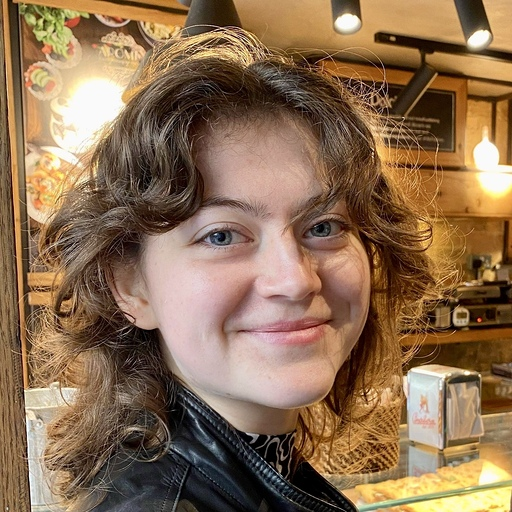
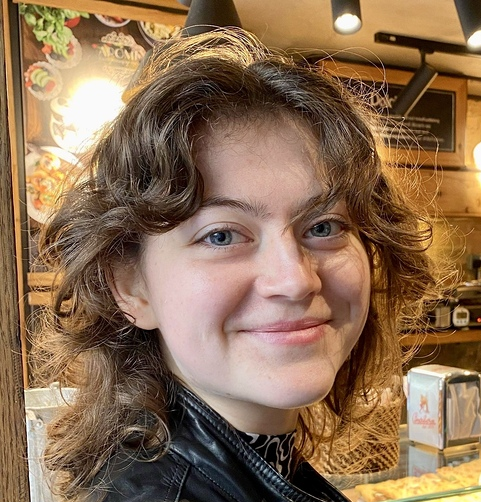
introduction

diff --git a/index.html b/index.html
@@ -6,6 +6,10 @@
     <meta name="viewport" content="width=device-width, initial-scale=1.0">
     <!-- CSS only -->
     <link href="https://cdn.jsdelivr.net/npm/bootstrap@5.2.3/dist/css/bootstrap.min.css" rel="stylesheet" integrity="sha384-rbsA2VBKQhggwzxH7pPCaAqO46MgnOM80zW1RWuH61DGLwZJEdK2Kadq2F9CUG65" crossorigin="anonymous">
+    <!--icons -->
+    <link rel="stylesheet" href="https://cdnjs.cloudflare.com/ajax/libs/font-awesome/6.2.1/css/all.min.css">
+    <!--social media -->
+    <link rel="stylesheet" href="https://cdnjs.cloudflare.com/ajax/libs/font-awesome/4.7.0/css/font-awesome.min.css">
     <link href="style.css" rel="stylesheet" type="text/css">
     <title>Self Introduction and Interest</title>
 </head>
@@ -27,7 +31,13 @@
                     <a class="nav-link active" aria-current="page" href="#">Home</a>
                     </li>
                     <li class="nav-item">
-                    <a class="nav-link" href="#">Page 1</a>
+                    <a class="nav-link" href="#Nicole">Nicole</a>
+                    </li>
+                    <li class="nav-item">
+                    <a class="nav-link" href="#Favour">Favour</a>
+                    </li>
+                    <li class="nav-item">
+                    <a class="nav-link" href="#Naomi">Naomi</a>
                     </li>
                 </ul>
             </div>
@@ -41,31 +51,32 @@
           <button type="button" data-bs-target="#carouselExampleCaptions" data-bs-slide-to="0" class="active" aria-current="true" aria-label="Slide 1"></button>
           <button type="button" data-bs-target="#carouselExampleCaptions" data-bs-slide-to="1" aria-label="Slide 2"></button>
           <button type="button" data-bs-target="#carouselExampleCaptions" data-bs-slide-to="2" aria-label="Slide 3"></button>
+          <button type="button" data-bs-target="#carouselExampleCaptions" data-bs-slide-to="3" aria-label="Slide 4"></button>
         </div>
         <div class="carousel-inner">
             <div class="carousel-item active">
-                <img src="theTeam.jpg" class="d-block w-100" alt="...">
+                <img src="team5.png" class="d-block w-100" width="400" height="auto" alt="...">
                     <div class="carousel-caption d-none d-md-block">
                         <h5>Meet Team 5</h5>
                         <p>Hello This is Team 5</p>
                     </div>
             </div>
             <div class="carousel-item">
-                <img src="nicole1.jpg" class="d-block w-100" alt="...">
+                <img src="nicole1.jpg" class="d-block w-100" width="400" height="auto" style="width:100%" alt="...">
                 <div class="carousel-caption d-none d-md-block">
                     <h5>Nicole Nash</h5>
                     <p>This is Nicole Nash</p>
                 </div>
             </div>
             <div class="carousel-item">
-                <img src="fav1.jpg" class="d-block w-100" alt="...">
+                <img src="fav1.jpg" class="d-block w-100" style="width:100%" alt="...">
                 <div class="carousel-caption d-none d-md-block">
                     <h5>Favour Ekengwu</h5>
                     <p>This is Favour Ekengwu</p>
                 </div>
             </div>
             <div class="carousel-item">
-                <img src="naomi1.png" class="d-block w-100" alt="...">
+                <img src="naomi1.png" class="d-block w-100" width="400" height="500" alt="...">
                 <div class="carousel-caption d-none d-md-block">
                     <h5>Naomi Lowes</h5>
                     <p>This is Naomi Lowes</p>
@@ -81,7 +92,126 @@
           <span class="visually-hidden">Next</span>
         </button>
       </div>
+    
 
+
+    <!-- First Grid -->
+    <a name="Nicole"></a>
+    <div class="w3-row-padding w3-padding-64 w3-light-grey w3-container">
+        <div class="w3-content">
+            <div class="w3-twothird">
+                <h1><b>Nicole</b></h1>
+
+
+            <p><b>Nicole </b></p> 
+            <p> Introduction </p>
+
+            <p> Information about your self </p>
+
+            <br>
+            <h1><b>Interest and Hobbie</b></h1>
+
+            <p>More  </p>
+
+            <p> </p>
+
+            <p></p>
+            </div>
+
+            <!-- <div class="w3-third w3-center">
+                <i class="fa-solid fa-rocket w3-padding-64 w3-text-red fa-10x"></i>
+            
+            </div> -->
+        </div>
+    </div>
+
+    <!-- First Grid -->
+    <a name="Favour"></a>
+    <div class="w3-row-padding w3-padding-64 w3-container">
+        <div class="w3-content">
+            <div class="w3-twothird">
+                <h1><b>Favour</b></h1>
+
+
+            <p><b>Favour </b></p> 
+            <p> Introduction </p>
+
+            <p> Information about your self </p>
+
+            <br>
+            <h1><b>Interest and Hobbie</b></h1>
+
+            <p>More  </p>
+
+            <p> </p>
+
+            <p></p>
+            </div>
+
+            <!-- <div class="w3-third w3-center">
+                <i class="fa-solid fa-rocket w3-padding-64 w3-text-red fa-10x"></i>
+            
+            </div> -->
+        </div>
+    </div>
+
+
+        <!-- First Grid -->
+        <a name="Naomi"></a>
+        <div class="w3-row-padding w3-padding-64 w3-light-grey w3-container">
+            <div class="w3-content">
+                <div class="w3-twothird">
+                    <h1><b>Naomi</b></h1>
+    
+    
+                <p><b>Naomi </b></p> 
+                <p> Introduction </p>
+    
+                <p> Information about your self </p>
+    
+                <br>
+                <h1><b>Interest and Hobbie</b></h1>
+    
+                <p>More  </p>
+    
+                <p> </p>
+    
+                <p></p>
+                </div>
+    
+                <!-- <div class="w3-third w3-center">
+                    <i class="fa-solid fa-linkedin w3-padding-64 w3-text-red fa-10x"></i>
+                
+                </div> -->
+            </div>
+        </div>
+
+
+
+    <!-- Footer -->
+    <a name="Contact"></a>
+    <footer class="w3-container w3-padding-32 w3-theme-d1 w3-center">
+        <h4>Contact Us</h4>
+        <a href="https://www.linkedin.com/in/favourekengwu/" class="w3-button w3-large w3-teal w3-hide-small" href="javascript:void(0)" title="Linkedin" target="_blank"><i class="fa fa-linkedin"> Favour Ekengwu</i></a>
+
+        <br>
+
+        <a href="https://www.linkedin.com/" class="w3-button w3-large w3-teal w3-hide-small" href="javascript:void(0)" title="Linkedin" target="_blank"><i class="fa fa-linkedin"></i></a>
+
+        <br>
+
+        <a href="https://www.linkedin.com/" class="w3-button w3-large w3-teal w3-hide-small" href="javascript:void(0)" title="Linkedin" target="_blank"><i class="fa fa-linkedin"></i></a>
+
+
+        <p>Powered by Team 5</p>
+
+        <div class="w3-tooltip w3-right">
+            <span class="w3-text w3-padding w3-teal w3-hide-small">Go To Top</span>   
+            <a class="w3-button w3-theme" href="#Home"><span class="w3-xlarge">
+            <i class="fa fa-chevron-circle-up"></i></span></a>
+        </div>
+    </footer>
+    
     <!-- JavaScript Bundle with Popper -->
     <script src="https://cdn.jsdelivr.net/npm/bootstrap@5.2.3/dist/js/bootstrap.bundle.min.js" integrity="sha384-kenU1KFdBIe4zVF0s0G1M5b4hcpxyD9F7jL+jjXkk+Q2h455rYXK/7HAuoJl+0I4" crossorigin="anonymous"></script>
     <script src="app.js"></script>

diff --git a/style.css b/style.css
@@ -1,7 +1,27 @@
-.d-block {
-
-    height: auto;
-  
-    max-width: 100%;
-  
+/* .d-block-4x3 {
+    @include media-breakpoint-up(md) {
+      --bs-aspect-ratio: 50%; // 2x1
+    }
   }
+
+
+   .ratio-4x3 {
+    @include media-breakpoint-up(md) {
+      --bs-aspect-ratio: 50%; // 2x1
+    }
+  }  */
+  
+  .carousel img {
+    object-fit: cover;
+    object-position: center; 
+    height: 90vh;
+    overflow: hidden;
+   }  
+
+   .w3-container {
+	padding:128px 16px
+}
+
+.fa-anchor,.fa-coffee {
+	font-size:200px;
+}
